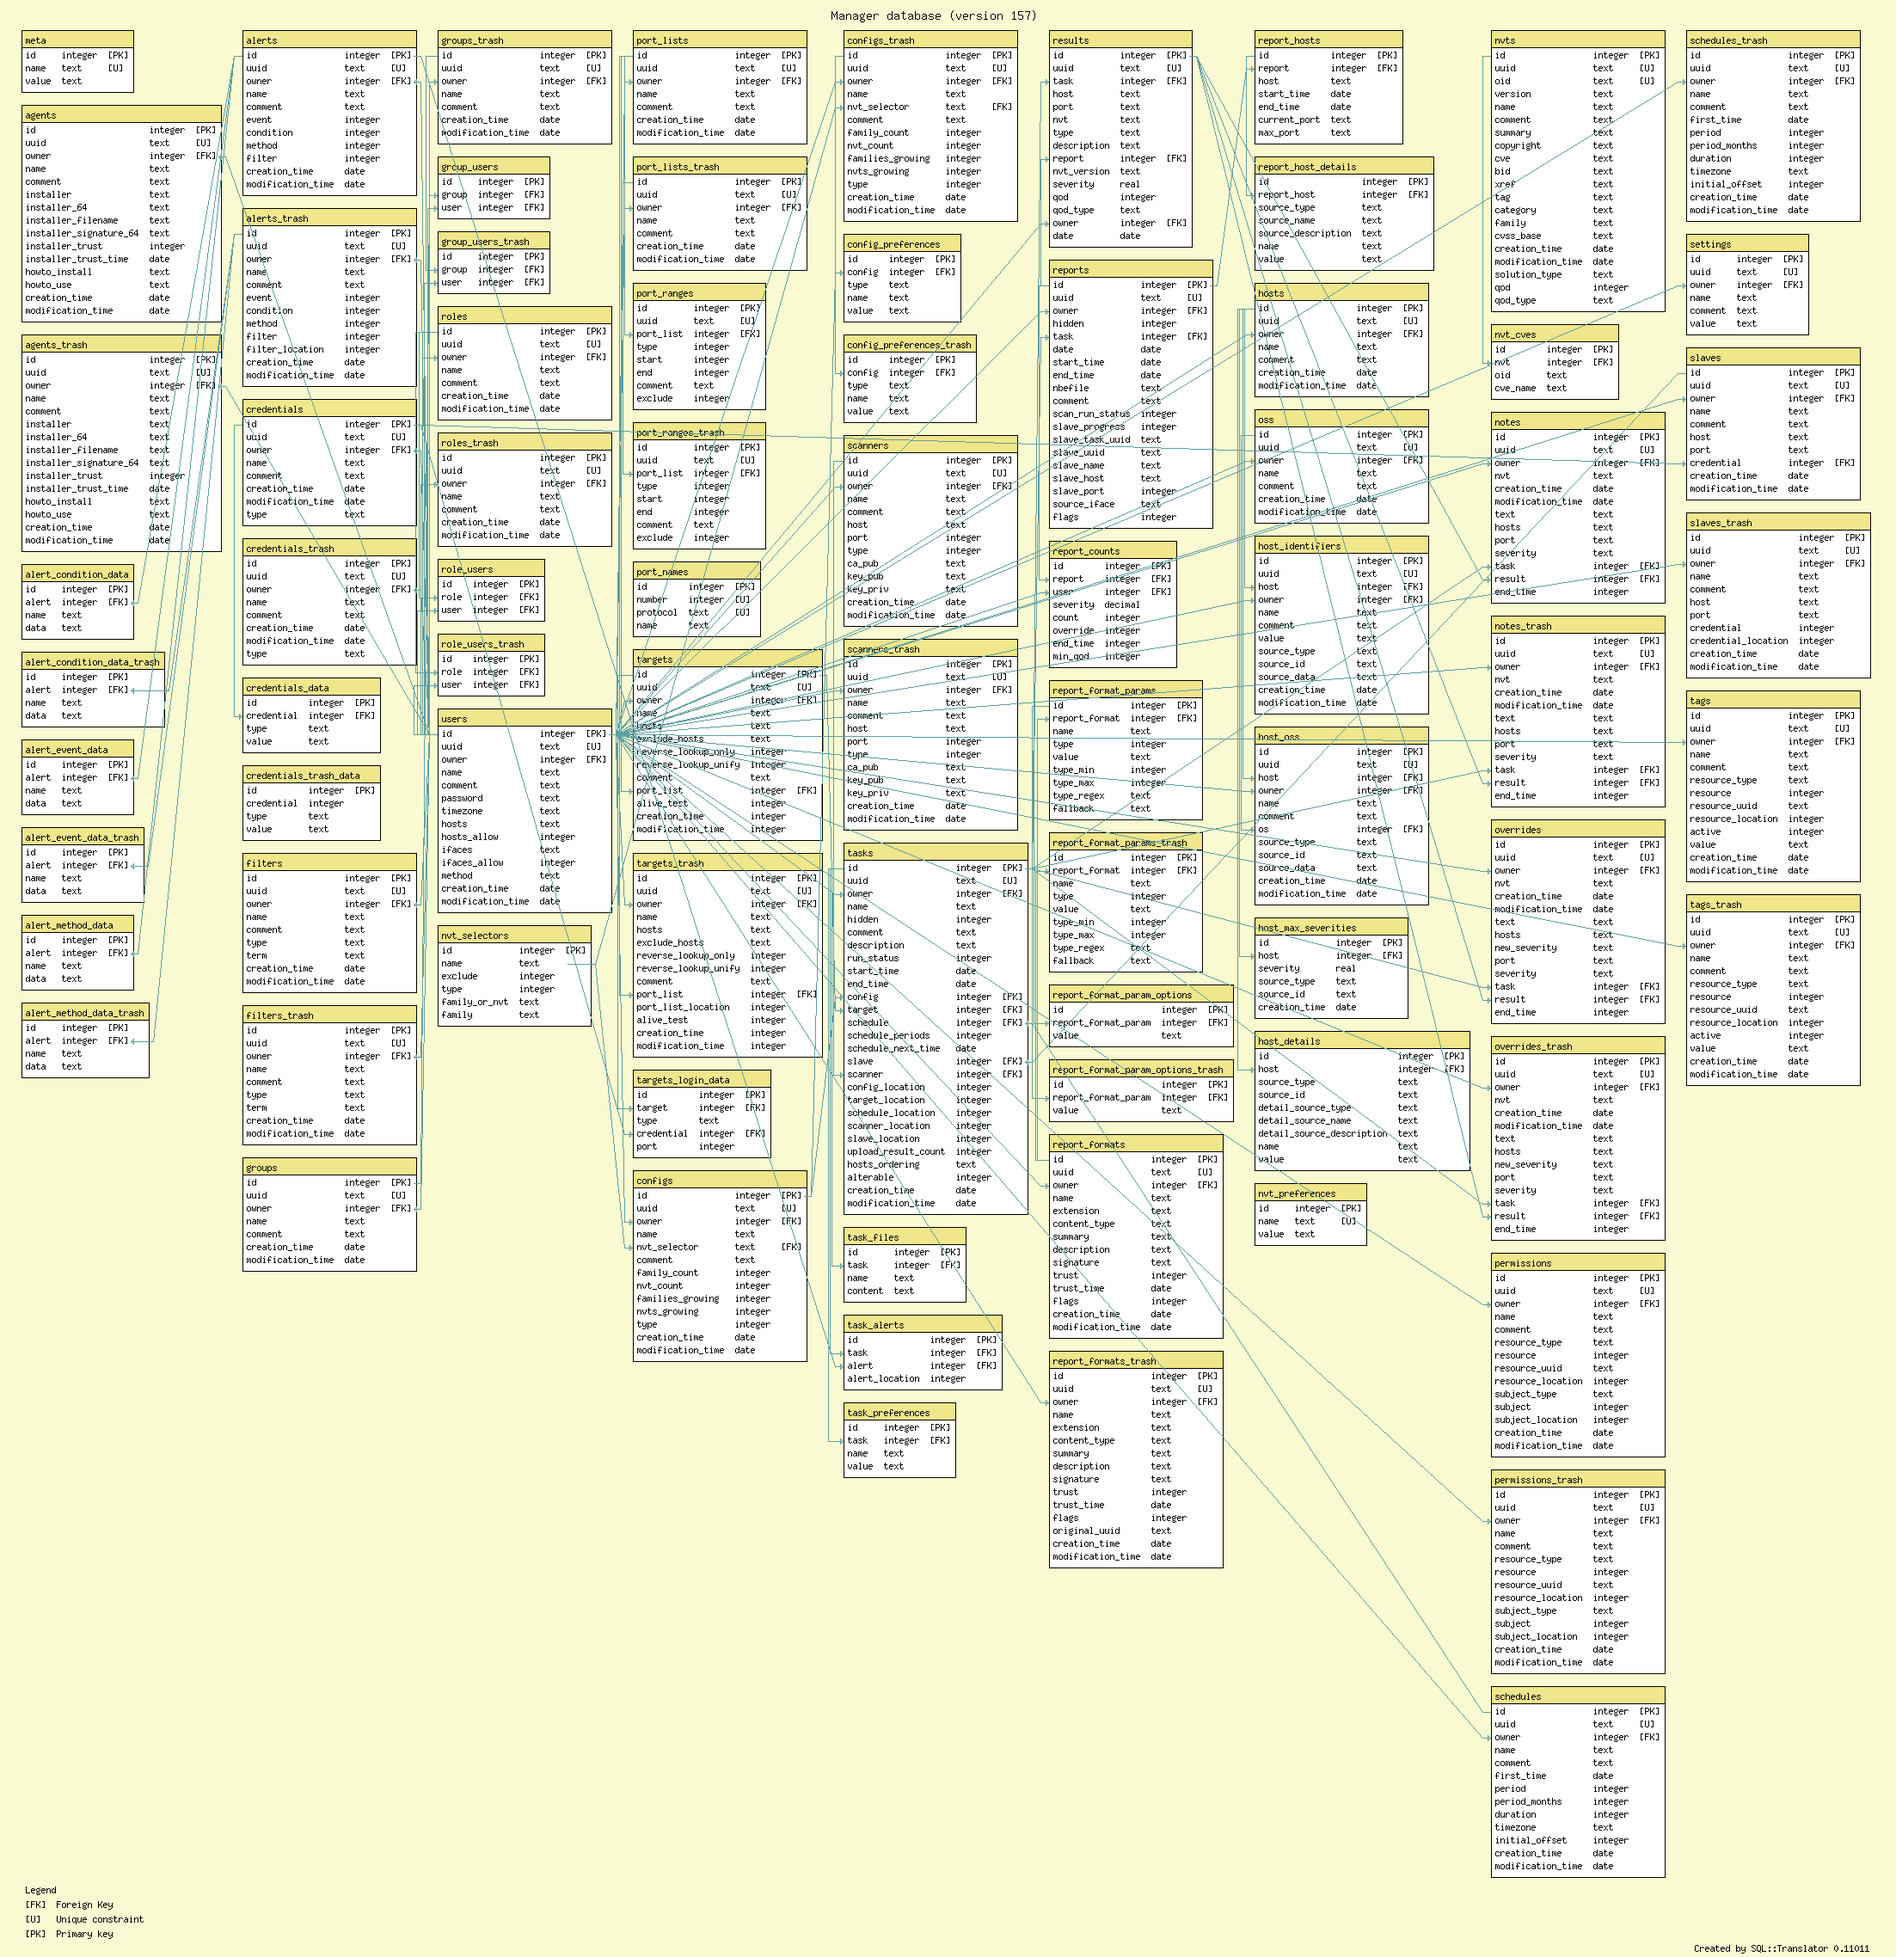
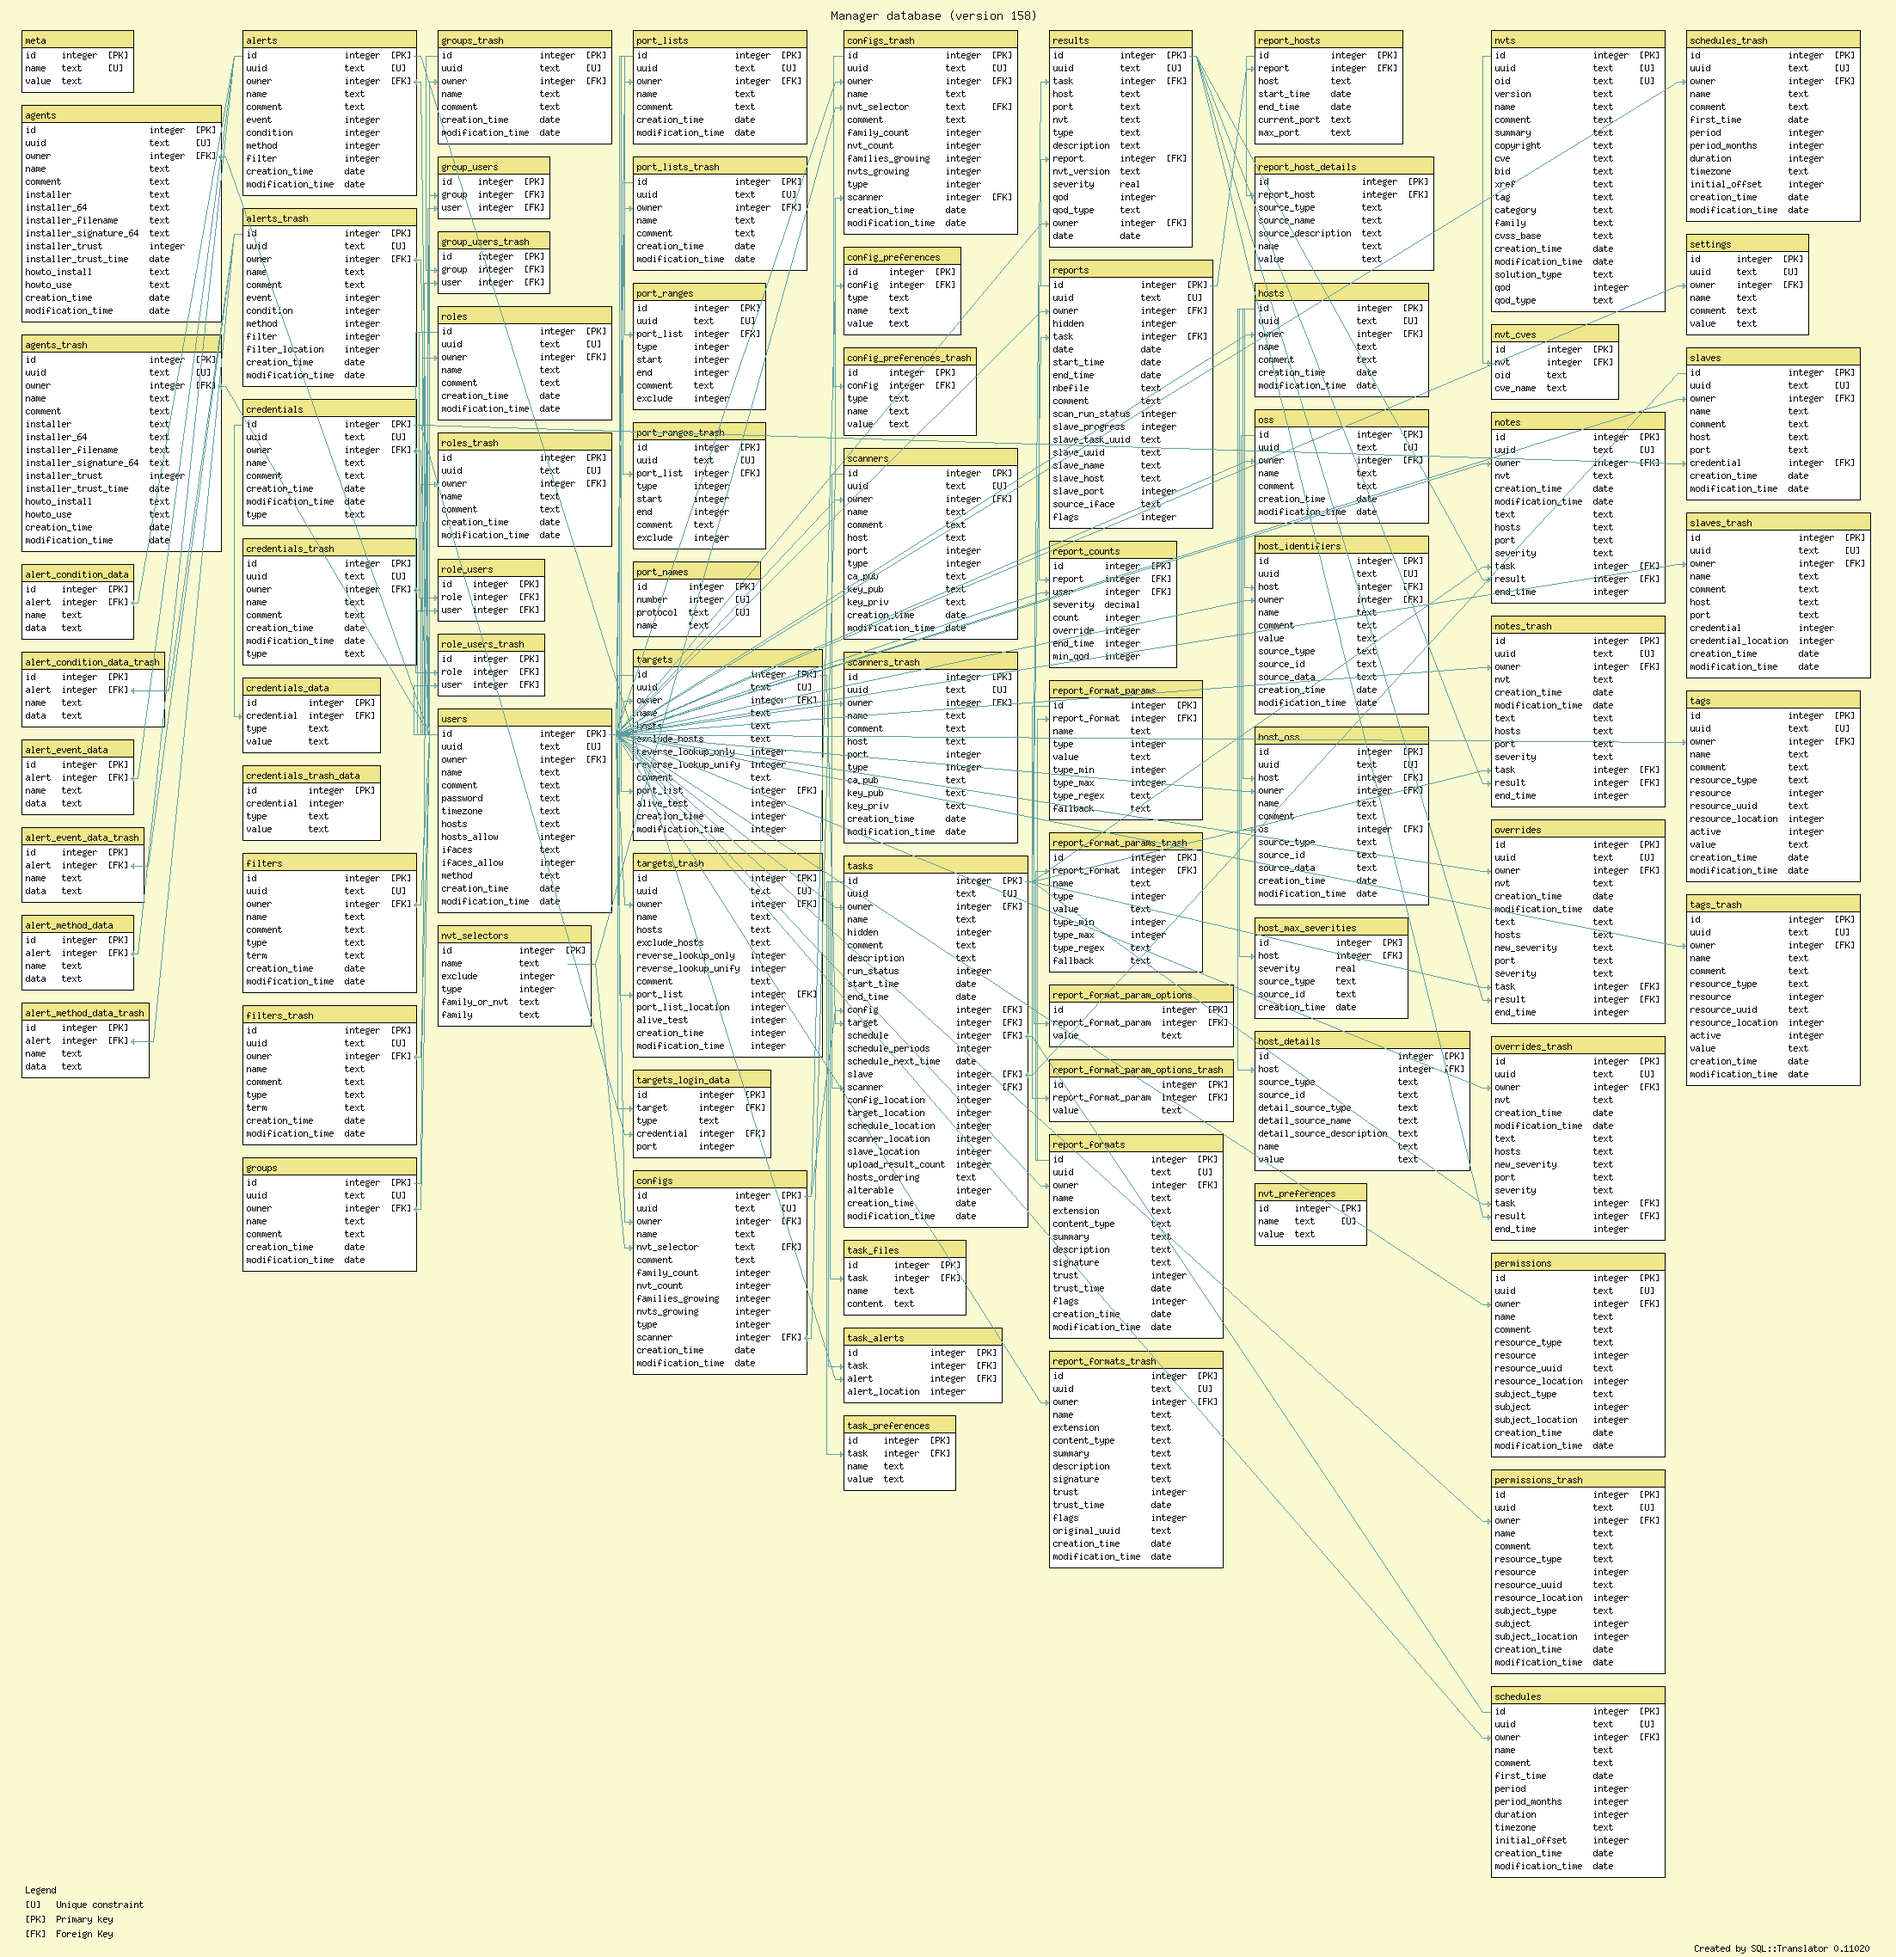
Add scanner column for configs and configs_trash. Hence increase database version to 158. Add database migration from version 157 to 158.
* CMakeLists.txt (OPENVASMD_DATABASE_VERSION): Increase to 158.

* src/manage_migrators.c (migrate_157_to_158): New function.
(database_migrators): Add migrate_157_to_158.

* src/manage_sql.c (create_config_from_scanner): Add scanner ID to newly
create config.
(config_scanner): Get the config's scanner.
(copy_scanner, delete_scanner, manage_restore): Handle the scanner
column too.

* doc/db_postgres.sql: Update table definition for configs and
configs_trash.

* doc/db.png: Update from source.

* src/manage_pg.c (create_tables), src/manage_sqlite3.c (create_tables):
Add scanner column to configs and configs_trash tables.

git-svn-id: svn+ssh://scm.wald.intevation.org/openvas/trunk/openvas-manager@23727 423fd1db-d629-0410-8442-d21db03e70f4

Changed region(s): [[0.3392, 0.4055, 0.5551, 0.7799], [0.4317, 0.0936, 0.5551, 0.2496], [0.4317, 0.2808, 0.5551, 0.3743]]

diff --git a/src/manage_sql.c b/src/manage_sql.c
@@ -31197,11 +31197,11 @@ create_config_from_scanner (const char *scanner_id, const char *name,
   quoted_comment = sql_quote (comment ?: "");
   /* Create new OSP config. */
   sql ("INSERT INTO configs (uuid, name, owner, nvt_selector, comment,"
-       " type, creation_time, modification_time)"
+       " type, scanner, creation_time, modification_time)"
        " VALUES (make_uuid (), '%s',"
        " (SELECT id FROM users WHERE users.uuid = '%s'),"
-       " '', '%s', 1, m_now (), m_now ());",
-       quoted_name, current_credentials.uuid, quoted_comment);
+       " '', '%s', 1, %llu, m_now (), m_now ());",
+       quoted_name, current_credentials.uuid, quoted_comment, scanner);
   g_free (quoted_name);
   g_free (quoted_comment);
   config = sql_last_insert_id ();
@@ -31264,10 +31264,8 @@ config_scanner (config_t config)
 {
   scanner_t scanner;
 
-  /* XXX: Each config should have its own scanner. */
   switch (sql_int64 (&scanner,
-                     "SELECT id FROM scanners WHERE type = %i LIMIT 1;",
-                     SCANNER_TYPE_OSP))
+                     "SELECT scanner FROM configs WHERE id = %llu;", config))
     {
       case 0:
         break;
@@ -31490,8 +31488,7 @@ copy_config (const char* name, const char* comment, const char *config_id,
 
   ret = copy_resource_lock ("config", name, comment, config_id,
                             " family_count, nvt_count, families_growing,"
-                            " nvts_growing, type",
-                            1, &new, &old);
+                            " nvts_growing, type, scanner", 1, &new, &old);
   if (ret)
     {
       sql ("ROLLBACK;");
@@ -31655,11 +31652,11 @@ delete_config (const char *config_id, int ultimate)
 
       sql ("INSERT INTO configs_trash"
            " (uuid, owner, name, nvt_selector, comment, family_count, nvt_count,"
-           "  families_growing, nvts_growing, type,"
+           "  families_growing, nvts_growing, type, scanner,"
            "  creation_time, modification_time)"
            " SELECT uuid, owner, name, nvt_selector, comment, family_count,"
            "        nvt_count, families_growing, nvts_growing,"
-           "        type, creation_time, modification_time"
+           "        type, scanner, creation_time, modification_time"
            " FROM configs WHERE id = %llu;",
            config);
 
@@ -51626,11 +51623,11 @@ manage_restore (const char *id)
 
       sql ("INSERT INTO configs"
            " (uuid, owner, name, nvt_selector, comment, family_count, nvt_count,"
-           "  families_growing, nvts_growing, type, creation_time,"
+           "  families_growing, nvts_growing, type, scanner, creation_time,"
            "  modification_time)"
            " SELECT uuid, owner, name, nvt_selector, comment, family_count,"
            "        nvt_count, families_growing, nvts_growing,"
-           "        type, creation_time, modification_time"
+           "        type, scanner, creation_time, modification_time"
            " FROM configs_trash WHERE id = %llu;",
            resource);
 

diff --git a/src/manage_migrators.c b/src/manage_migrators.c
@@ -11092,6 +11092,54 @@ migrate_156_to_157 ()
   return 0;
 }
 
+/**
+ * @brief Migrate the database from version 157 to version 158.
+ *
+ * @return 0 success, -1 error.
+ */
+int
+migrate_157_to_158 ()
+{
+  sql_begin_exclusive ();
+
+  /* Ensure that the database is currently version 157. */
+
+  if (manage_db_version () != 157)
+    {
+      sql ("ROLLBACK;");
+      return -1;
+    }
+
+  /* Update the database. */
+
+  /* Add new column to configs tables */
+  if (sql_is_sqlite3 ())
+    {
+      sql ("ALTER TABLE configs ADD COLUMN scanner INTEGER;");
+      sql ("ALTER TABLE configs_trash ADD COLUMN scanner INTEGER;");
+    }
+  else
+    {
+      sql ("ALTER TABLE configs ADD COLUMN scanner INTEGER"
+           " REFERENCES scanners (id) ON DELETE RESTRICT;");
+      sql ("ALTER TABLE configs_trash ADD COLUMN scanner INTEGER"
+           " REFERENCES scanners (id) ON DELETE RESTRICT;");
+    }
+
+  /* Add first OSP scanner in scanners table, as scanner of OSP configs. */
+  sql ("UPDATE configs"
+       " SET scanner = (SELECT id FROM scanners WHERE type = %d LIMIT 1)"
+       " WHERE type = 1;", SCANNER_TYPE_OSP);
+
+  /* Set the database version to 158. */
+
+  set_db_version (158);
+
+  sql ("COMMIT;");
+
+  return 0;
+}
+
 #ifdef SQL_IS_SQLITE
 #define SQLITE_OR_NULL(function) function
 #else
@@ -11260,6 +11308,7 @@ static migrator_t database_migrators[]
     {155, migrate_154_to_155},
     {156, migrate_155_to_156},
     {157, migrate_156_to_157},
+    {158, migrate_157_to_158},
     /* End marker. */
     {-1, NULL}};
 

diff --git a/src/manage_sqlite3.c b/src/manage_sqlite3.c
@@ -2505,13 +2505,13 @@ create_tables ()
   sql ("CREATE TABLE IF NOT EXISTS configs"
        " (id INTEGER PRIMARY KEY, uuid UNIQUE, owner INTEGER, name,"
        "  nvt_selector, comment, family_count INTEGER, nvt_count INTEGER,"
-       "  families_growing INTEGER, nvts_growing INTEGER, type, creation_time,"
-       "  modification_time);");
+       "  families_growing INTEGER, nvts_growing INTEGER, type, scanner,"
+       "  creation_time, modification_time);");
   sql ("CREATE TABLE IF NOT EXISTS configs_trash"
        " (id INTEGER PRIMARY KEY, uuid UNIQUE, owner INTEGER, name,"
        "  nvt_selector, comment, family_count INTEGER, nvt_count INTEGER,"
-       "  families_growing INTEGER, nvts_growing INTEGER, type, creation_time,"
-       "  modification_time);");
+       "  families_growing INTEGER, nvts_growing INTEGER, type, scanner,"
+       "  creation_time, modification_time);");
   sql ("CREATE TABLE IF NOT EXISTS alert_condition_data"
        " (id INTEGER PRIMARY KEY, alert INTEGER, name, data);");
   sql ("CREATE TABLE IF NOT EXISTS alert_condition_data_trash"

diff --git a/src/manage_pg.c b/src/manage_pg.c
@@ -1856,6 +1856,7 @@ create_tables ()
        "  families_growing integer,"
        "  nvts_growing integer,"
        "  type integer,"
+       "  scanner integer REFERENCES scanners (id) ON DELETE RESTRICT,"
        "  creation_time integer,"
        "  modification_time integer);");
 
@@ -1871,6 +1872,7 @@ create_tables ()
        "  families_growing integer,"
        "  nvts_growing integer,"
        "  type integer,"
+       "  scanner integer REFERENCES scanners (id) ON DELETE RESTRICT,"
        "  creation_time integer,"
        "  modification_time integer);");
 
